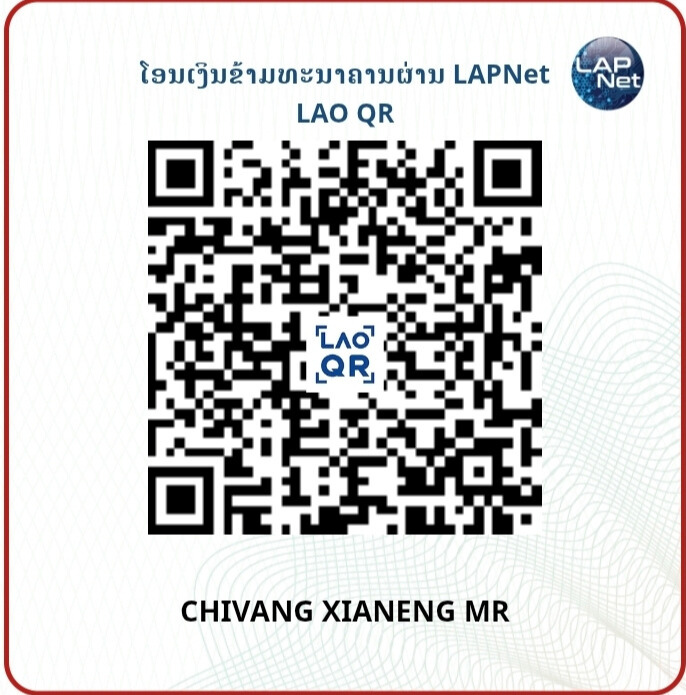
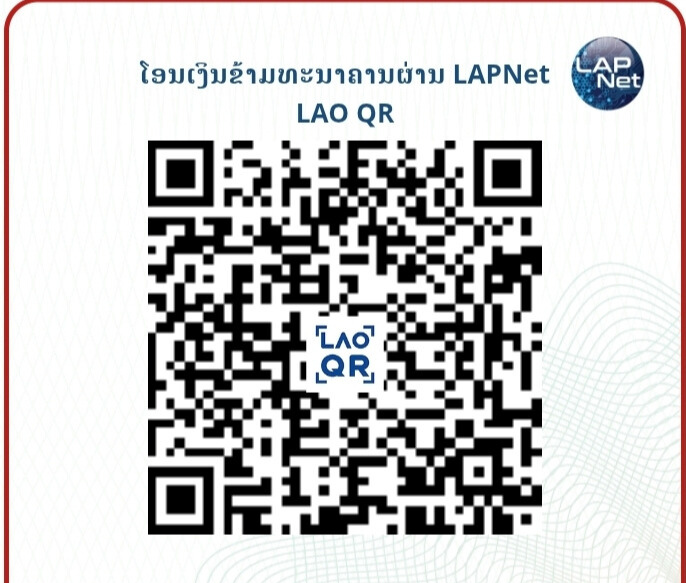
update qr code

diff --git a/src/app/support/page.tsx b/src/app/support/page.tsx
@@ -12,7 +12,7 @@ export default function SupportPage() {
     <div className="min-h-screen bg-[#f8f9fa] font-phetsarath flex flex-col pt-10 pb-20 px-4">
       {/* Back Button */}
       <div className="max-w-2xl mx-auto w-full mb-6">
-        <Link 
+        <Link
           href="/"
           className="inline-flex items-center gap-2 text-sm text-gray-500 hover:text-green-600 transition-colors font-bold"
         >
@@ -48,21 +48,19 @@ export default function SupportPage() {
           <div className="flex p-1 bg-gray-100 rounded-2xl">
             <button
               onClick={() => setActiveBank('bcel')}
-              className={`flex-1 py-3 px-4 rounded-xl text-sm font-bold transition-all ${
-                activeBank === 'bcel' 
-                  ? 'bg-white text-gray-900 shadow-sm' 
-                  : 'text-gray-500 hover:text-gray-700'
-              }`}
+              className={`flex-1 py-3 px-4 rounded-xl text-sm font-bold transition-all ${activeBank === 'bcel'
+                ? 'bg-white text-gray-900 shadow-sm'
+                : 'text-gray-500 hover:text-gray-700'
+                }`}
             >
               {t('support.bcel_one')}
             </button>
             <button
               onClick={() => setActiveBank('ldb')}
-              className={`flex-1 py-3 px-4 rounded-xl text-sm font-bold transition-all ${
-                activeBank === 'ldb' 
-                  ? 'bg-white text-gray-900 shadow-sm' 
-                  : 'text-gray-500 hover:text-gray-700'
-              }`}
+              className={`flex-1 py-3 px-4 rounded-xl text-sm font-bold transition-all ${activeBank === 'ldb'
+                ? 'bg-white text-gray-900 shadow-sm'
+                : 'text-gray-500 hover:text-gray-700'
+                }`}
             >
               {t('support.ldb_bank')}
             </button>
@@ -71,8 +69,8 @@ export default function SupportPage() {
           {/* QR Content */}
           <div className="space-y-6">
             <div className="aspect-square max-w-[320px] mx-auto bg-gray-50 rounded-3xl border-8 border-[#f8f9fa] overflow-hidden shadow-inner group relative">
-              <img 
-                src={activeBank === 'bcel' ? '/images/bcel_qr.png' : '/images/ldb_qr.png'} 
+              <img
+                src={activeBank === 'bcel' ? '/images/bcel_qr.png' : '/images/ldb_qr.png'}
                 alt="QR Code"
                 className="w-full h-full object-cover transition-transform duration-500 group-hover:scale-110"
               />
@@ -82,7 +80,7 @@ export default function SupportPage() {
             </div>
 
             <p className="text-xs font-bold text-gray-700 uppercase tracking-widest bg-gray-50 py-2 inline-block px-6 rounded-full border border-gray-100 italic">
-              THINNAKONE BOUASAVANH MR
+              CHIVANG XIANENG MR
             </p>
 
             <button
